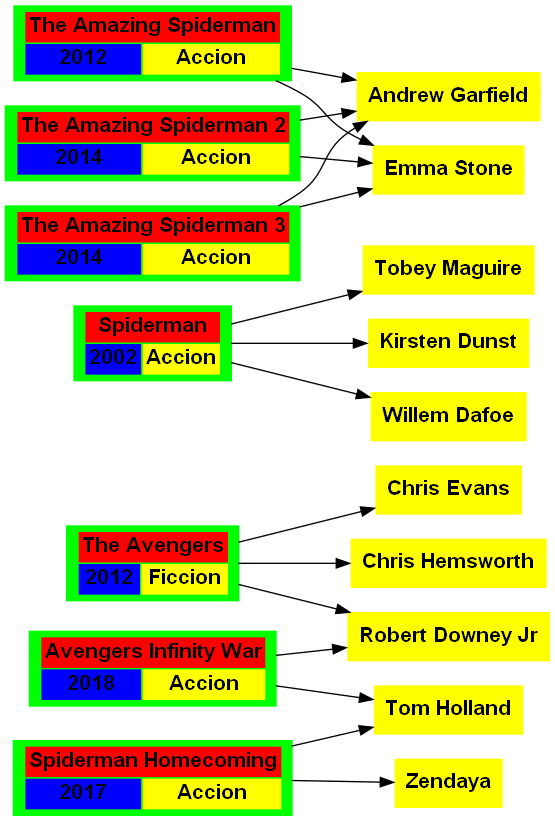
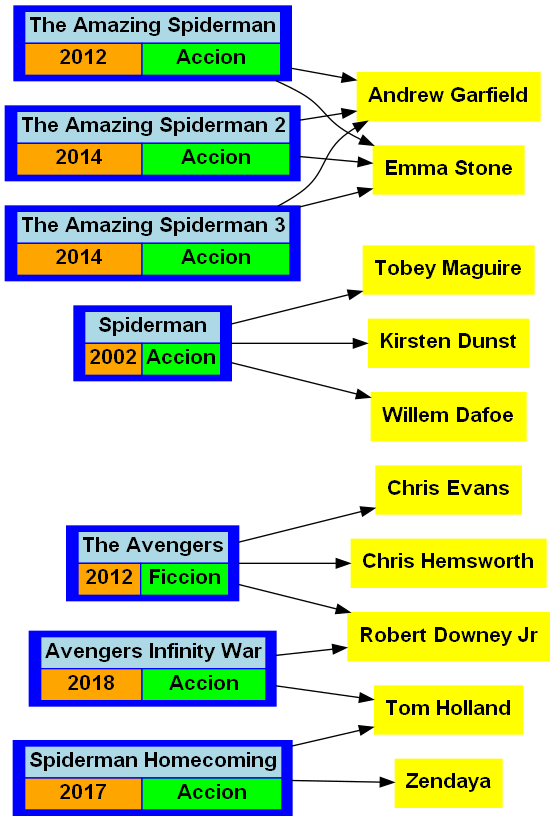
Commit final en main

Changed region(s): [[0.0, 0.0, 0.5514, 0.4872], [0.0, 0.7613, 0.5514, 1.0], [0.0919, 0.6395, 0.4595, 0.7308]]

diff --git a/main.py b/main.py
@@ -32,6 +32,7 @@ def cargarArchivo(lista):
         tmp_actores = None
         tmp_anio = None
         tmp_genero = None
+        # recorre todos los elementos de la lista que se separo con ';' en este caso el rango es de 4, cuando i=0 guardamos el valor en tmp_nombre y asi con todas las variables temp
         for i in range(len(separador)):
             if i == 0:
                 tmp_nombre = separador[i].strip()
@@ -41,24 +42,30 @@ def cargarArchivo(lista):
                 tmp_anio = separador[i].strip()
             elif i == 3:
                 tmp_genero = separador[i].strip()
-
+        # comparamos si tmp_nombre se encuentra en la lista nombres, esta condicion funciona para verificar si hay alguna pelicula repetida, se compara con el nombre ya que es el unico elemento distinto
         if tmp_nombre not in nombres:
             peli = peliculas(tmp_nombre, tmp_actores, tmp_anio, tmp_genero)
             lista.append(peli)
             nombres.append(tmp_nombre)
 
+# Funcion para mostrar los actores que se encuentran en una pelicula
+
 
 def mostrarNombres(registro_peliculas):
+    # esta variable nos ayuda para enumerar el listado de peliculas
     num_pelis = 0
     for pelicula in registro_peliculas:
         num_pelis += 1
         print(num_pelis, ".", pelicula.nombre)
+    # aqui el usuario eligira alguna pelicula
     opcion_peli = int(
-        input('\nIngrese el numero de la pelicula donde desea ver los actores: ')) - 1
-
+        input('\nIngrese el numero de la pelicula donde desea ver los actores: ')) - 1  # se pone -1 al final ya que los subindices de una lista empieza en 0
+    # guardamos el dato del actor en esta variable, ponemos la lista con el subindice que se ingreso
     actor = registro_peliculas[opcion_peli].actores
     print("\nActores de {0}: {1}".format(
         registro_peliculas[opcion_peli].nombre, actor))
+
+# Funcion para el menu de gestion de peliculas
 
 
 def gestionarPeliculas():
@@ -67,11 +74,13 @@ def gestionarPeliculas():
         b. Mostrar actores
         c. Regresar al menu principal
 \n================================================\n""")
+    # repite hasta que el usuario eliga alguna de las opciones
     while True:
         try:
             option = input("Ingrese una opcion: ")
             print('\n')
             if option == "a":
+                # se verifica si la lista de las peliculas esta vacia o no, se copio esta condicion para todas las opciones
                 if ListaPeliculas == []:
                     print(
                         '\n****No tiene ninguna pelicula registrada. Cargue un archivo para mostrar el listado de peliculas.****')
@@ -99,23 +108,33 @@ def gestionarPeliculas():
             print("Opcion incorrecta")
     exit
 
+# Funcion para filtrar por actor
+
 
 def buscar_actor(lista_peliculas, actor):
+    # En esta lista guardamos las peliculas donde aparece el actor
     peliculas_con_actor = []
+    # la variable pelicula iterara toda la lista de peliculas, y se compara si el valor de actor que el usuario escribio con la lista de pelicuas existe en dicha lista. Para al final agregar la pelicula a la lista_con_actor.
     for pelicula in lista_peliculas:
         if actor.upper() in pelicula.actores.upper():
             peliculas_con_actor.append(pelicula.nombre)
+    # Si la longitud de la lista peliculas_con_actor es igual a 0, entonces el actor no participa en esa pelicula.
     if len(peliculas_con_actor) == 0:
         print("\nEl actor", actor, "no se encuentra en ninguna pelicula. \n")
     else:
+        # Se imprime las peliculas donde aparece el actor. Con una iteracion for en la lista peliculas_con_actor.
         print("\nEl actor", actor, "aparece en las siguientes peliculas: \n")
         for pelicula in peliculas_con_actor:
             print("-", pelicula)
 
+# Funcion para buscar peliculas por año
+
 
 def buscar_anio(lista_peliculas, anio):
+    # Es similar a la funcion buscar_actor pero en este caso se guardan 2 atributos a una lista, el nombre y genero
     filtrado_anio = []
     for pelicula in lista_peliculas:
+        # se compara el año ingresado por el usuario con los datos de la lista, y si lo encuentra se guarda en la lista filtrado_anio
         if pelicula.anio == anio:
             filtrado_anio.append([pelicula.nombre, pelicula.genero])
     if filtrado_anio == []:
@@ -125,8 +144,11 @@ def buscar_anio(lista_peliculas, anio):
         for pelicula in filtrado_anio:
             print("-", pelicula)
 
+# Funcion buscar peliculas por genero
+
 
 def buscar_genero(lista_peliculas, genero):
+    # Similar a las funciones anteriores, se guardara el nombre de las peliculas en la lista peliculas_con_genero.
     peliculas_con_genero = []
     for pelicula in lista_peliculas:
         if genero.upper() in pelicula.genero.upper():
@@ -137,6 +159,8 @@ def buscar_genero(lista_peliculas, genero):
         print("\nEl genero", genero, "aparece en las siguientes peliculas:\n")
         for pelicula in peliculas_con_genero:
             print("-", pelicula)
+
+# Funcion menu buscar por filtrado
 
 
 def filtrado():
@@ -213,17 +237,15 @@ def grafica_peliculas(lista_peliculas):
     # recorre la lista para generar el nodo donde se guardara el nombre de la pelicula, año y genero
     for pelicula in lista_peliculas:
         archivoDOT.write(pelicula.nombre.replace(" ", "") +
-                         '[color=green, style=filled, label=<\n')
+                         '[color=blue, style=filled, label=<\n')
         archivoDOT.write('<TABLE BORDER="0" CELLBORDER="1" CELLSPACING="0">\n')
-        archivoDOT.write('<TR><TD BGCOLOR="red" COLSPAN="2">' +
+        archivoDOT.write('<TR><TD BGCOLOR="lightblue" COLSPAN="2">' +
                          pelicula.nombre + '</TD></TR>\n')
-        archivoDOT.write('<TR><TD BGCOLOR="blue">' +
-                         pelicula.anio + '</TD> + <TD BGCOLOR="yellow">' +
+        archivoDOT.write('<TR><TD BGCOLOR="orange">' +
+                         pelicula.anio + '</TD> + <TD BGCOLOR="green">' +
                          pelicula.genero + '</TD> </TR>\n')
         archivoDOT.write('</TABLE>\n')
         archivoDOT.write('>]')
-        '''archivoDOT.write(pelicula.nombre.replace(" ", "")+'[color=green, style=filled, label="' +
-                         pelicula.nombre + '|' + '{' + pelicula.anio + '|' + pelicula.genero + '}' + '"]\n')'''
         # recorre los actores y se separa con ',' ya que en una pelicula puede haber mas de 1 actor, y se enlaza con el nodo anterior
         for actor in pelicula.actores.split(","):
             archivoDOT.write(pelicula.nombre.replace(
@@ -238,8 +260,11 @@ def grafica_peliculas(lista_peliculas):
     archivoDOT.write("} \n")
     archivoDOT.close()
 
+    # se convierte la imagen.dot a un archivo png
     os.system("dot.exe -Tpng imagen.dot -o  GraficaPeliculas.png")
     os.startfile("GraficaPeliculas.png")
+
+# funcion donde muestra las opciones del menu principal
 
 
 def menuPrincipal():
